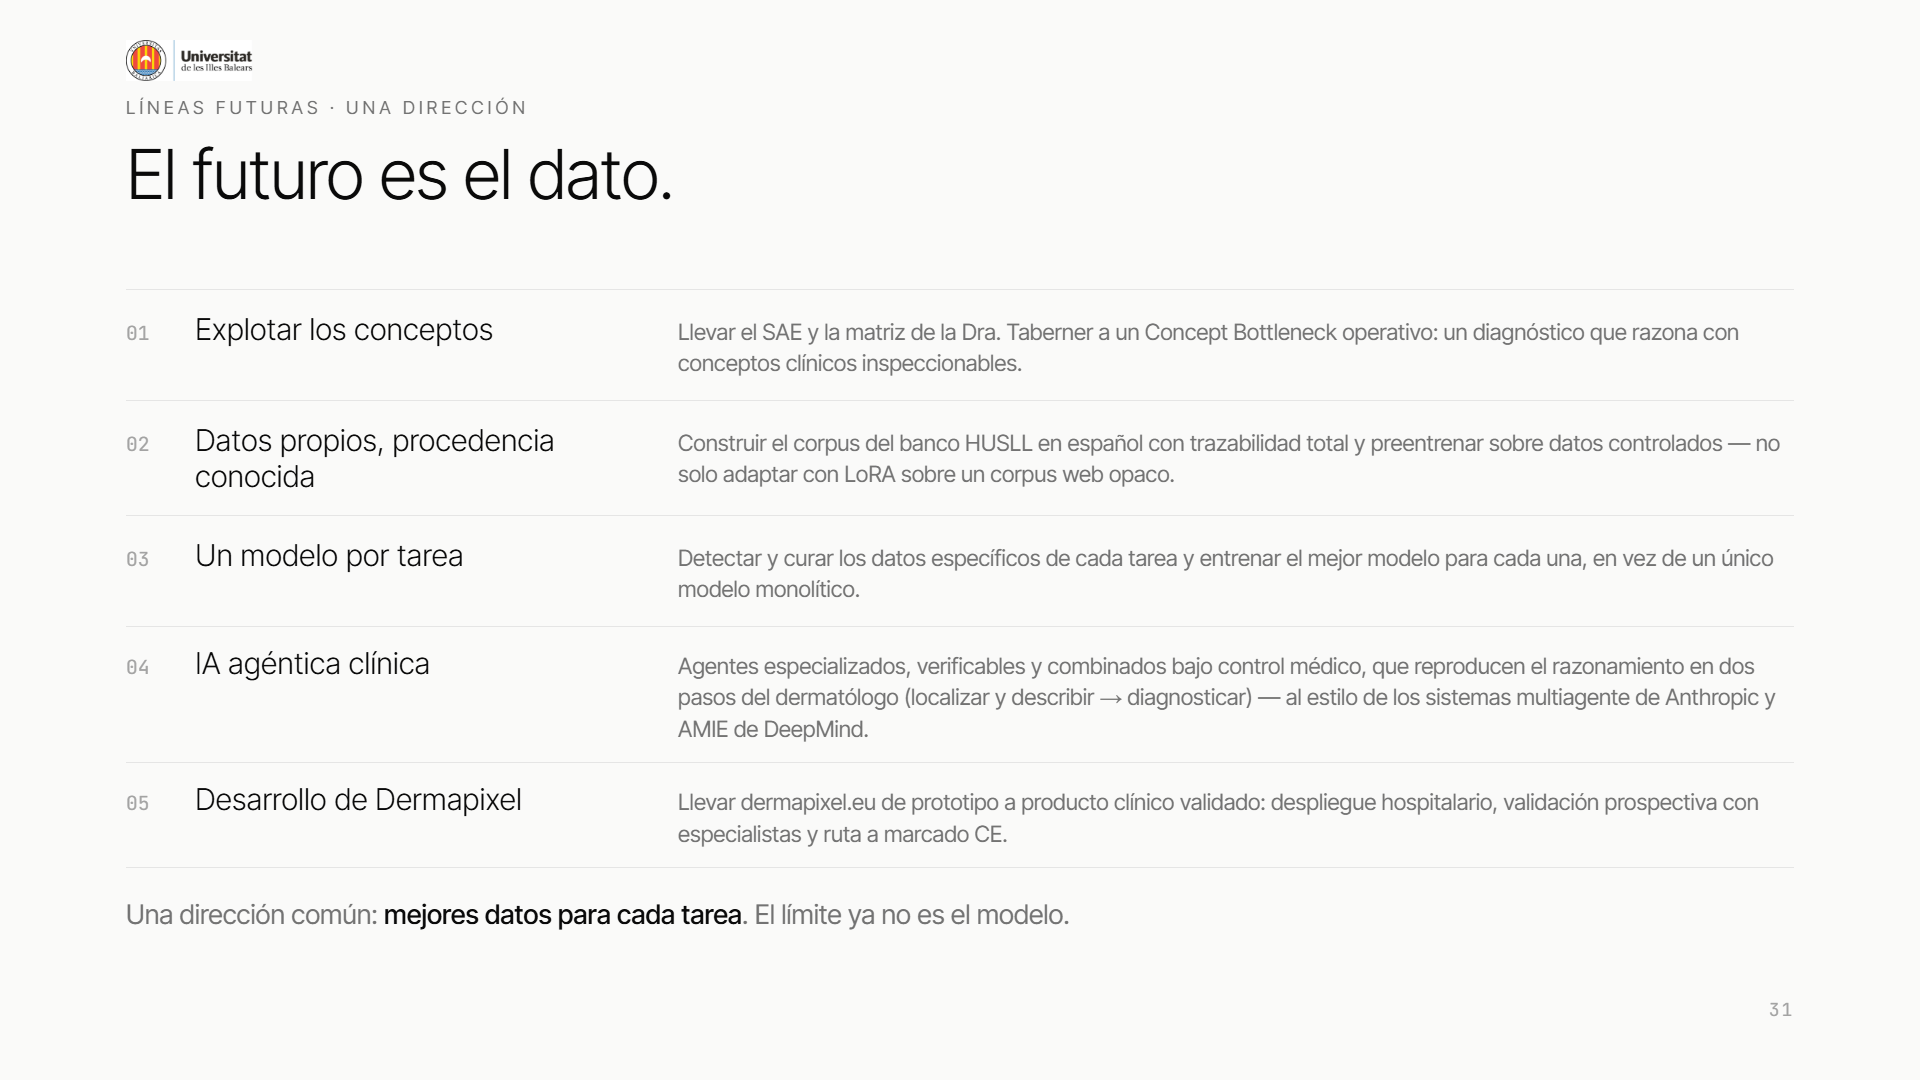
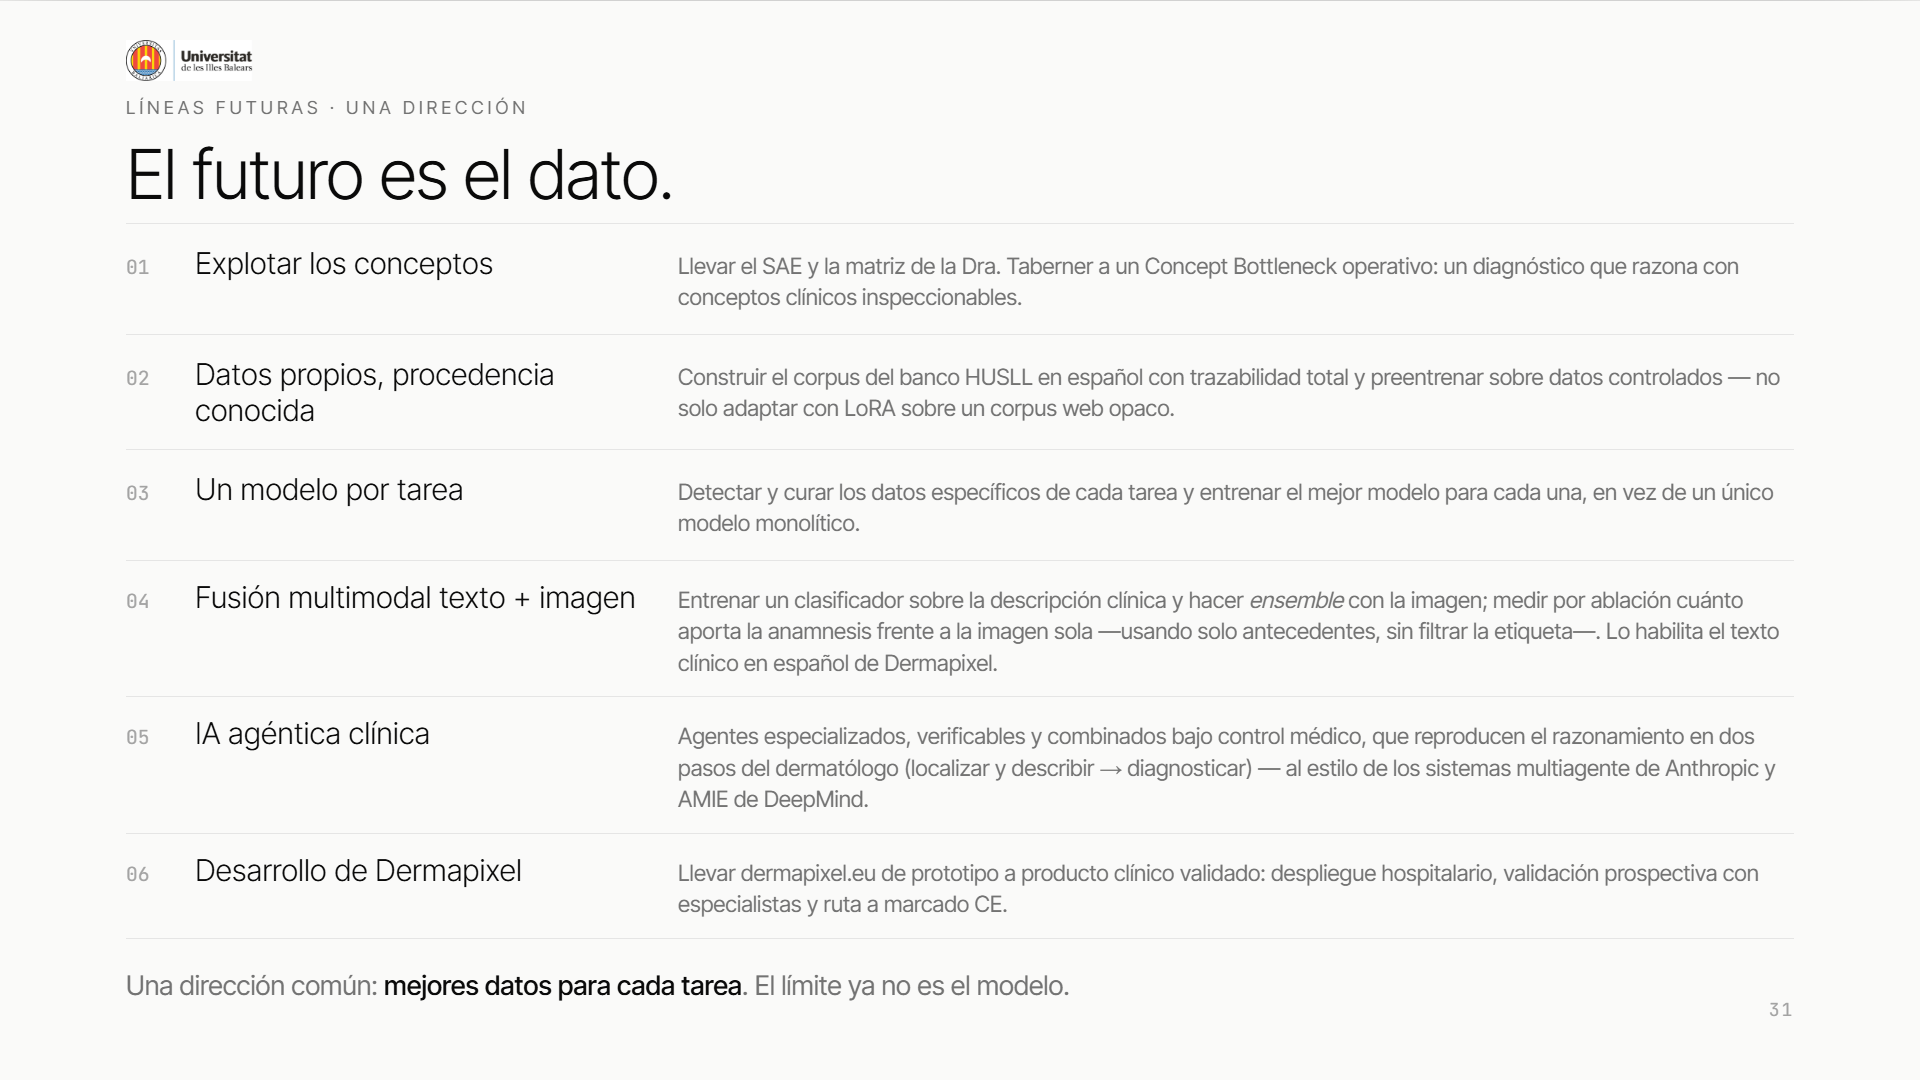
deck slide31: anade linea futura 'Fusion multimodal texto + imagen' (clasificador de texto + ensemble, ablacion valor de la anamnesis)

diff --git a/deck/index.html b/deck/index.html
@@ -1063,7 +1063,7 @@
   </section>
 
   <!-- ═══ Slide 28b · Líneas futuras ═══ -->
-  <section class="slide" data-notes="Y esto abre las líneas futuras, todas en la misma dirección: el dato. Primera, explotar los conceptos: llevar el Sparse Autoencoder y la matriz de la Dra. Taberner a un Concept Bottleneck operativo, un diagnóstico que razona con conceptos que el clínico puede inspeccionar. Segunda, datos propios de procedencia conocida: construir el corpus del banco del hospital en español, con trazabilidad total, y preentrenar sobre datos controlados, en lugar de solo adaptar con LoRA sobre un corpus web opaco. Tercera, un modelo por tarea: detectar y curar los datos específicos de cada tarea y entrenar el mejor modelo para cada una, en vez de un único modelo monolítico. Y cuarta, IA agéntica clínica: varios agentes especializados, verificables y combinados bajo control del médico, que reproducen el razonamiento en dos pasos del dermatólogo —localizar y describir primero, decidir después—, en la línea de los sistemas multiagente de Anthropic o AMIE de DeepMind. Y quinta, el desarrollo del propio Dermapixel: llevar el prototipo de prototipo a producto clínico validado, con despliegue hospitalario, validación prospectiva con especialistas y ruta a marcado CE. Todas comparten la misma conclusión: el límite ya no es el modelo, es el dato.">
+  <section class="slide" data-notes="Y esto abre las líneas futuras, todas en la misma dirección: el dato. Primera, explotar los conceptos: llevar el Sparse Autoencoder y la matriz de la Dra. Taberner a un Concept Bottleneck operativo, un diagnóstico que razona con conceptos que el clínico puede inspeccionar. Segunda, datos propios de procedencia conocida: construir el corpus del banco del hospital en español, con trazabilidad total, y preentrenar sobre datos controlados, en lugar de solo adaptar con LoRA sobre un corpus web opaco. Tercera, un modelo por tarea: detectar y curar los datos específicos de cada tarea y entrenar el mejor modelo para cada una, en vez de un único modelo monolítico. Cuarta, fusión multimodal texto e imagen: en el trabajo el texto solo alineó y explicó, pero no se entrenó un clasificador sobre la descripción clínica ni se fusionó con la imagen; la línea futura es entrenar ese clasificador de texto, combinarlo con la imagen y medir por ablación cuánto aporta la anamnesis frente a la imagen sola, usando solo antecedentes para no filtrar la etiqueta; lo habilita el texto clínico en español de Dermapixel. Y quinta, IA agéntica clínica: varios agentes especializados, verificables y combinados bajo control del médico, que reproducen el razonamiento en dos pasos del dermatólogo —localizar y describir primero, decidir después—, en la línea de los sistemas multiagente de Anthropic o AMIE de DeepMind. Y sexta, el desarrollo del propio Dermapixel: llevar el prototipo de prototipo a producto clínico validado, con despliegue hospitalario, validación prospectiva con especialistas y ruta a marcado CE. Todas comparten la misma conclusión: el límite ya no es el modelo, es el dato.">
     <img class="uib-mark" src="assets/537341_escudoUIB_horizontal.png" alt="Universitat de les Illes Balears">
     <div class="head"><div class="kicker">Líneas futuras · una dirección</div>
       <h2>El futuro es el dato.</h2></div>
@@ -1085,11 +1085,16 @@
       </div>
       <div style="display:flex; align-items:baseline; gap:22px; padding:12px 0; border-top:1px solid var(--ink200)">
         <div class="mono" style="font-size:13px; color:var(--ink400); width:24px; flex:none">04</div>
+        <div style="width:300px; flex:none"><div class="lead" style="font-size:20px; color:var(--ink)">Fusión multimodal texto + imagen</div></div>
+        <div class="muted" style="flex:1; font-size:15px; line-height:1.4">Entrenar un clasificador sobre la descripción clínica y hacer <i>ensemble</i> con la imagen; medir por ablación cuánto aporta la anamnesis frente a la imagen sola —usando solo antecedentes, sin filtrar la etiqueta—. Lo habilita el texto clínico en español de Dermapixel.</div>
+      </div>
+      <div style="display:flex; align-items:baseline; gap:22px; padding:12px 0; border-top:1px solid var(--ink200)">
+        <div class="mono" style="font-size:13px; color:var(--ink400); width:24px; flex:none">05</div>
         <div style="width:300px; flex:none"><div class="lead" style="font-size:20px; color:var(--ink)">IA agéntica clínica</div></div>
         <div class="muted" style="flex:1; font-size:15px; line-height:1.4">Agentes especializados, verificables y combinados bajo control médico, que reproducen el razonamiento en dos pasos del dermatólogo (localizar y describir → diagnosticar) — al estilo de los sistemas multiagente de Anthropic y AMIE de DeepMind.</div>
       </div>
       <div style="display:flex; align-items:baseline; gap:22px; padding:12px 0; border-top:1px solid var(--ink200); border-bottom:1px solid var(--ink200)">
-        <div class="mono" style="font-size:13px; color:var(--ink400); width:24px; flex:none">05</div>
+        <div class="mono" style="font-size:13px; color:var(--ink400); width:24px; flex:none">06</div>
         <div style="width:300px; flex:none"><div class="lead" style="font-size:20px; color:var(--ink)">Desarrollo de Dermapixel</div></div>
         <div class="muted" style="flex:1; font-size:15px; line-height:1.4">Llevar dermapixel.eu de prototipo a producto clínico validado: despliegue hospitalario, validación prospectiva con especialistas y ruta a marcado CE.</div>
       </div>
